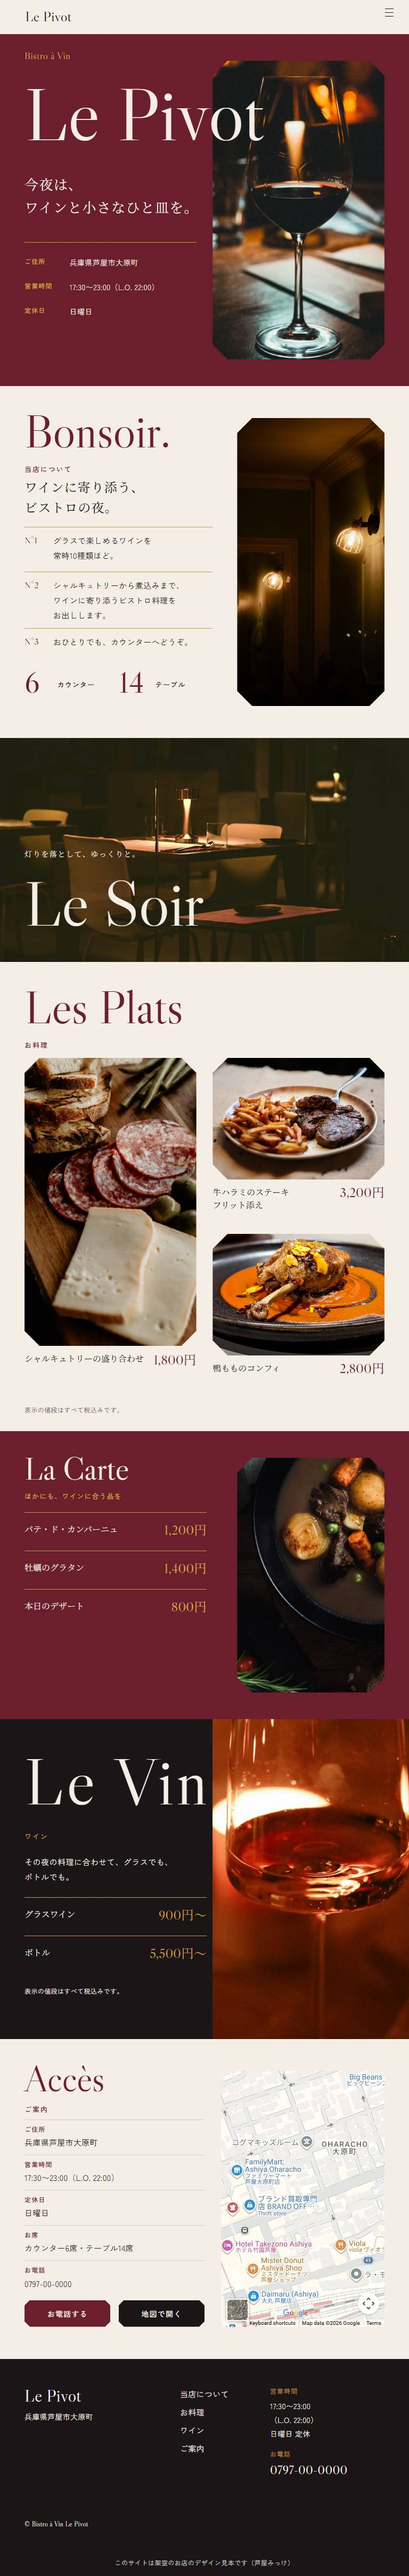
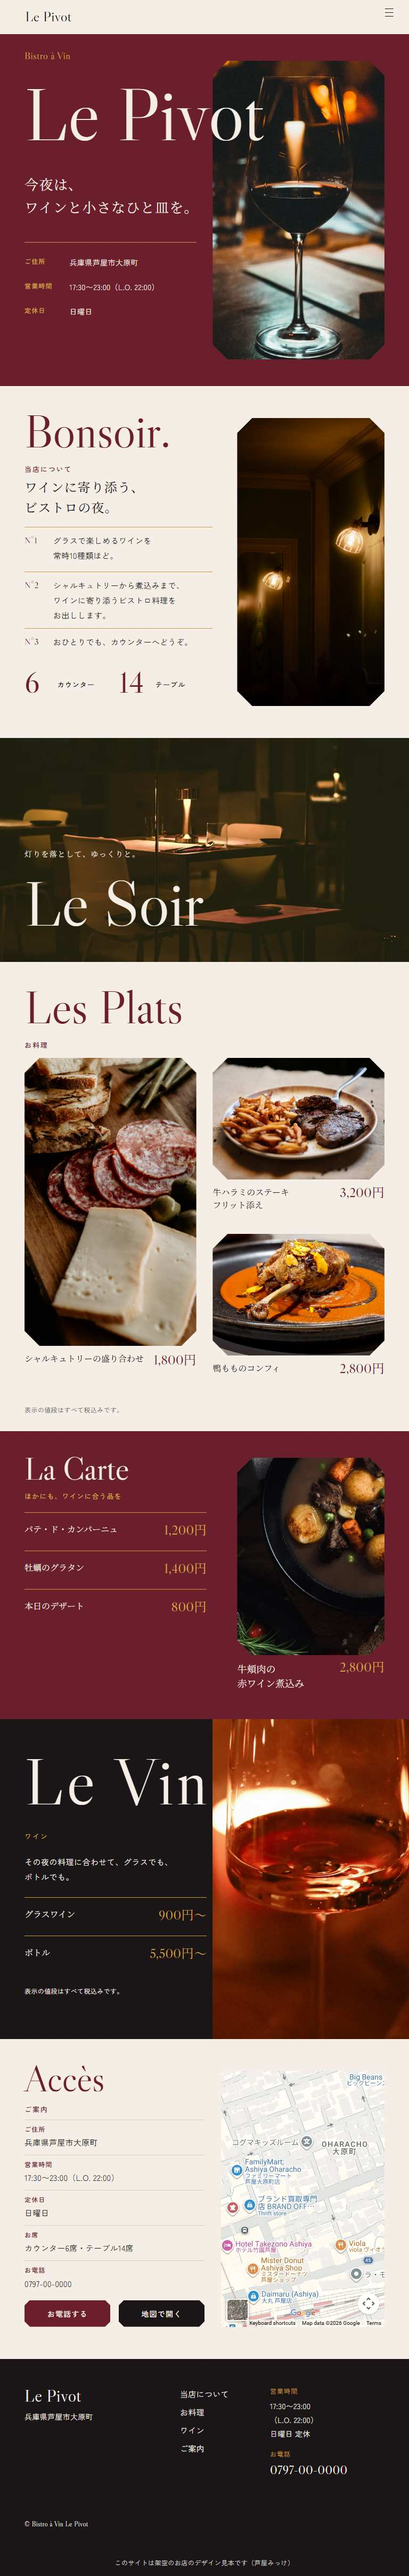
Le Pivot G019：牛頬肉の赤ワイン煮込みを品書きに足し、写真と結びつける
Claude-Session: https://claude.ai/code/session_016LALj8r6XNYXLg2B7om5G6

diff --git a/templates/wa-14/SPEC.md b/templates/wa-14/SPEC.md
@@ -56,7 +56,7 @@ G010「Bistro à Vin Le Pivot」（架空のビストロ）の型。実測は `r
 | ab | 紹介 | 壁のランプ（右下の他店のロゴは切り抜きで除いた） |
 | bd | 帯 | テーブルの灯りの夜の店内 |
 | ch・sk・cf | お料理 | シャルキュトリー・ステーキとフリット・鴨のコンフィ |
-| st | ほかの品 | 煮込み |
+| st | ほかの品 | 牛頬肉の赤ワイン煮込み（品に結びつける） |
 | wn | ワイン | 灯りに透けるグラス |
 
 ## 8. 開いた切り抜きと理由
